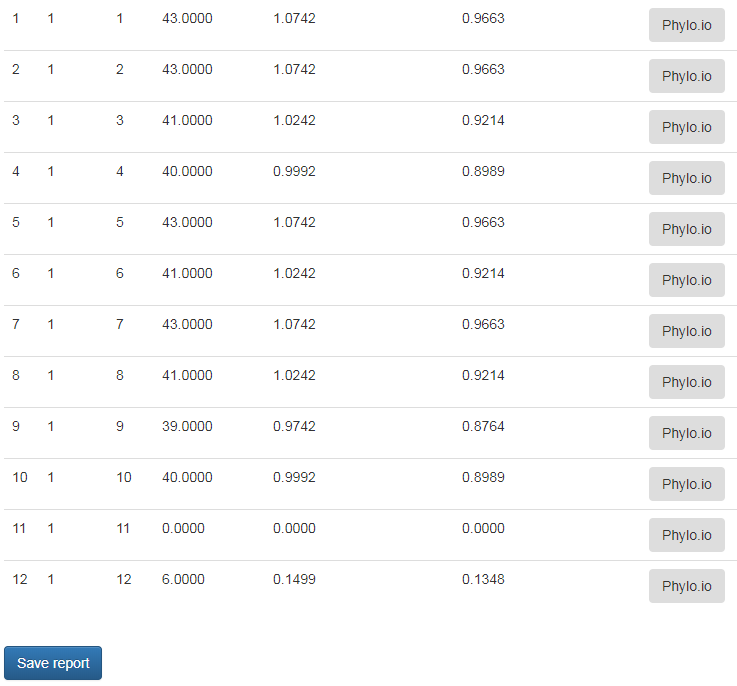
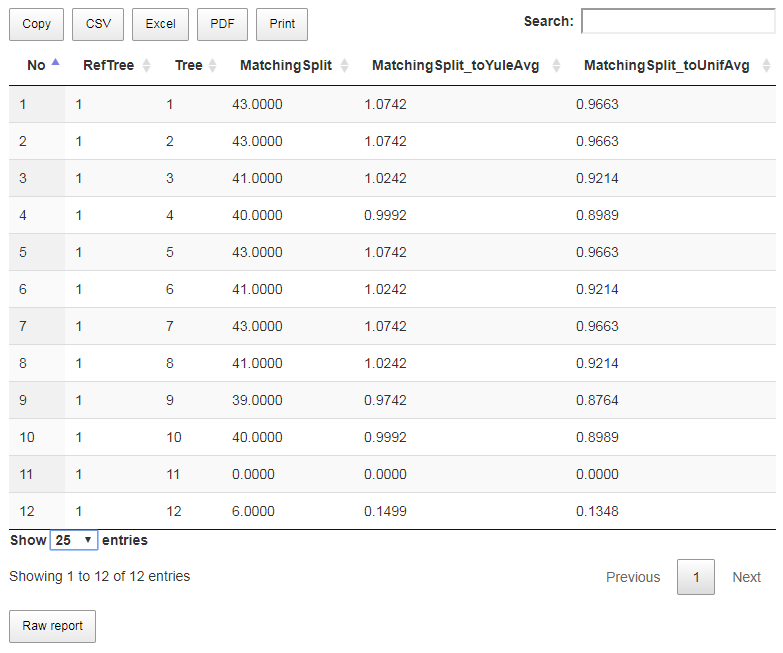
updated treeCmp manual for DataTable extensions

diff --git a/src/main/resources/static/manual_tree_cmp.html b/src/main/resources/static/manual_tree_cmp.html
@@ -8,7 +8,6 @@
     <link rel="stylesheet" href="https://maxcdn.bootstrapcdn.com/bootstrap/3.3.7/css/bootstrap-theme.min.css" />
     <link rel="stylesheet" href="css/treecmp.css" type="text/css" />
 
-
     <style>
         .form-group .item{white-space: nowrap; display:inline}
     </style>
@@ -181,7 +180,27 @@
         <p>
             After completing calculations, results appear in the new tab as shown in Fig. 7.
             Each row (excluding header) contains information about calculated metrics for one pair of compared trees.
-            In subsequent columns, we can find the metrics selected in the previous step (Fig. 7A).
+            In the first three rows we find the ordinal number and numbers of compared trees.(Fig. 7A).
+            In subsequent columns, we can find the metrics selected in the previous step (Fig. 7B).
+        </p>
+        <p>
+            Each pair of compared trees can be drawn by clicking corresponding row.
+            The visualized trees will be displayed in a new pop-up window using the <a href="http://phylo.io/">Phylo.io</a> application.
+            Detailed information related to manipulation of displayed trees are placed in the manual available in the newly displayed window.
+        </p>
+        <p>
+            After using Normalized distances option the following two columns (Fig. 7C) per each chosen metric appear additionally in the output file.
+            These columns contain the value of the distance in a particular metric divided by its empirical average value.
+            If the number of common leaves in compared trees is out of supported range (which is form 4 to 1000), then “N/A” value is inserted.
+            For details regarding generating phylogenetic trees under the Yule and uniform models see (McKenzie and Steel 2000; Semple and Steel 2003).
+        </p>
+        <p>
+            By default, data is sorted in ascending order by first column containing the ordinal numbers.
+            We can easily change it by clicking the appropriate column header (this also applies to the order: decreasing, increasing).
+            In order to search/filter only rows that containing a certain phrase, we can use the search control (Fig. 7D).
+        </p>
+        <p>
+            The displayed data (excluding filtered ones) can be easily copied to the system clipboard, saved in one of the following formats: CSV, EXCEL, PDF or printed using the appropriate button (Fig. 7E).
         </p>
         <div class="row">
             <div class="col-sm-12 col-md-12 col-lg-12 imageContainer">
@@ -248,13 +267,7 @@
             </tr>
         </table>
         <p>
-            After using Normalized distances option the following two columns (Fig. 7B) per each chosen metric appear additionally in the output file.
-            These columns contain the value of the distance in a particular metric divided by its empirical average value.
-            If the number of common leaves in compared trees is out of supported range (which is form 4 to 1000), then “N/A” value is inserted.
-            For details regarding generating phylogenetic trees under the Yule and uniform models see (McKenzie and Steel 2000; Semple and Steel 2003).
-        </p>
-        <p>
-            Using Summary option adds an additional section to the report with the following format (Fig. 7C):
+            Using Summary option adds an additional section to the report with the following format (Fig. 7F):
         </p>
         <table class="report" style="width:50%">
             <tr>
@@ -313,14 +326,9 @@
                 <td>Number of taxa in common</td>
             </tr>
         </table>
-        <p>
-            Each pair of compared trees can be drawn by clicking the Phylo.io button (Fig. 7D Draw trees in column).
-            The visualized trees will be displayed in a new pop-up window using the <a href="http://phylo.io/">Phylo.io</a> application.
-            Detailed information related to manipulation of displayed trees are placed in the manual available in the newly displayed window.
-        </p>
         <h2>Report file</h2>
         <p>
-            By clicking the Save report button, you can save the report in text format file.
+            By clicking the Raw report button (Fig. 7G), you can save the report in text format file .
             This file is tab separated text files (TSV), which means that they can be easily read by various data analysis software (e.g. MS Excel, R, OpenOffice.org).
             An report file consists of two sections (Fig 8).
             The first section contains formatted in rows values of distances in selected metrics.

diff --git a/src/main/resources/static/js/navigation.js b/src/main/resources/static/js/navigation.js
@@ -12,12 +12,13 @@ function getReport(/*reportStstus*/) {
         type: 'POST',
         mimeType:"text/html; charset=UTF-8",
         success: function(result) {
+            var rawReportFilename = "TreeCmp Comparison of Phylogenetic Trees in Polynomial Time - Raw Report.txt";
             if (result != null && navigator.msSaveBlob)
-                return navigator.msSaveBlob(new Blob([result], { type: "data:attachment/text" }), "report.txt");
+                return navigator.msSaveBlob(new Blob([result], { type: "data:attachment/text" }), rawReportFilename);
             var a = $("<a style='display: none;'/>");
             var url = window.URL.createObjectURL(new Blob([result], {type: "data:attachment/text"}));
             a.attr("href", url);
-            a.attr("download", "report.txt");
+            a.attr("download", rawReportFilename);
             $("body").append(a);
             a[0].click();
             window.URL.revokeObjectURL(url);
